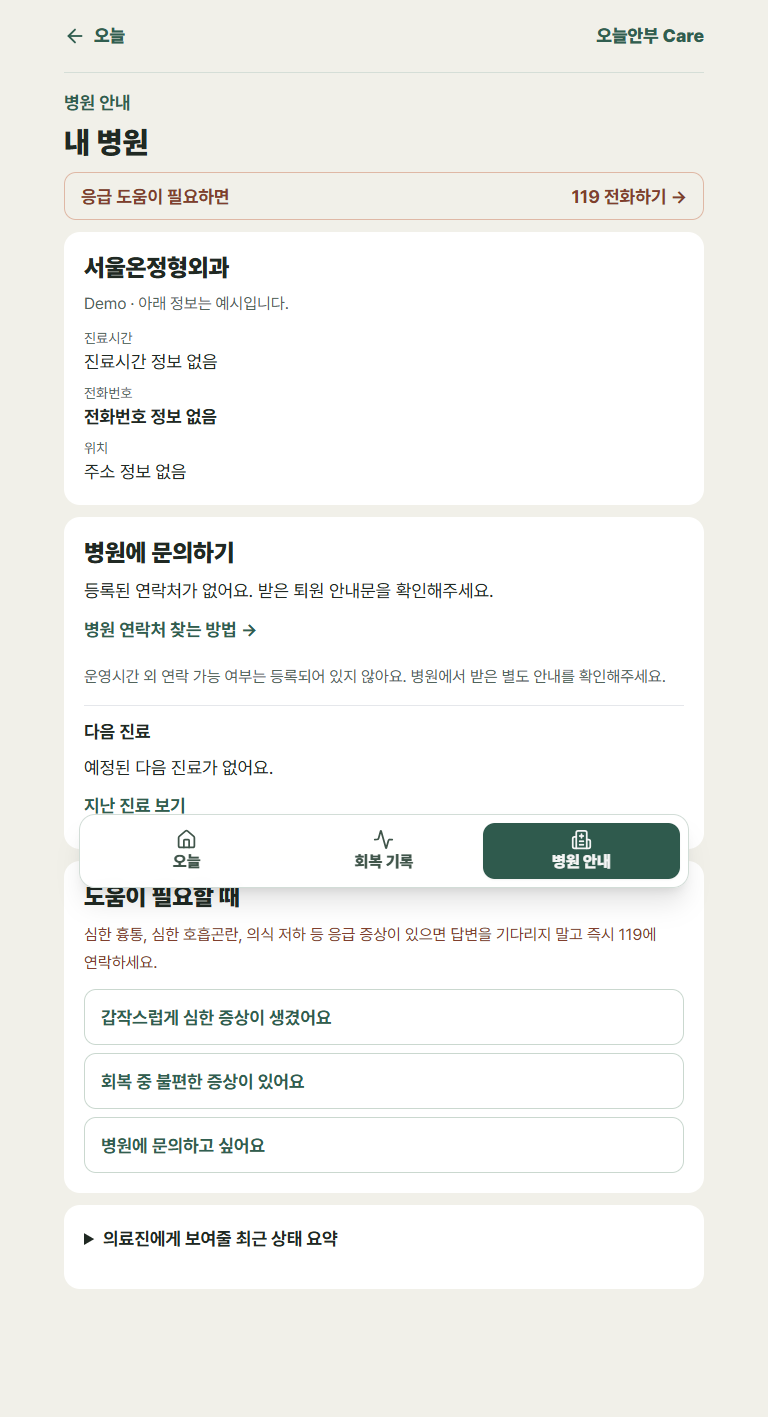
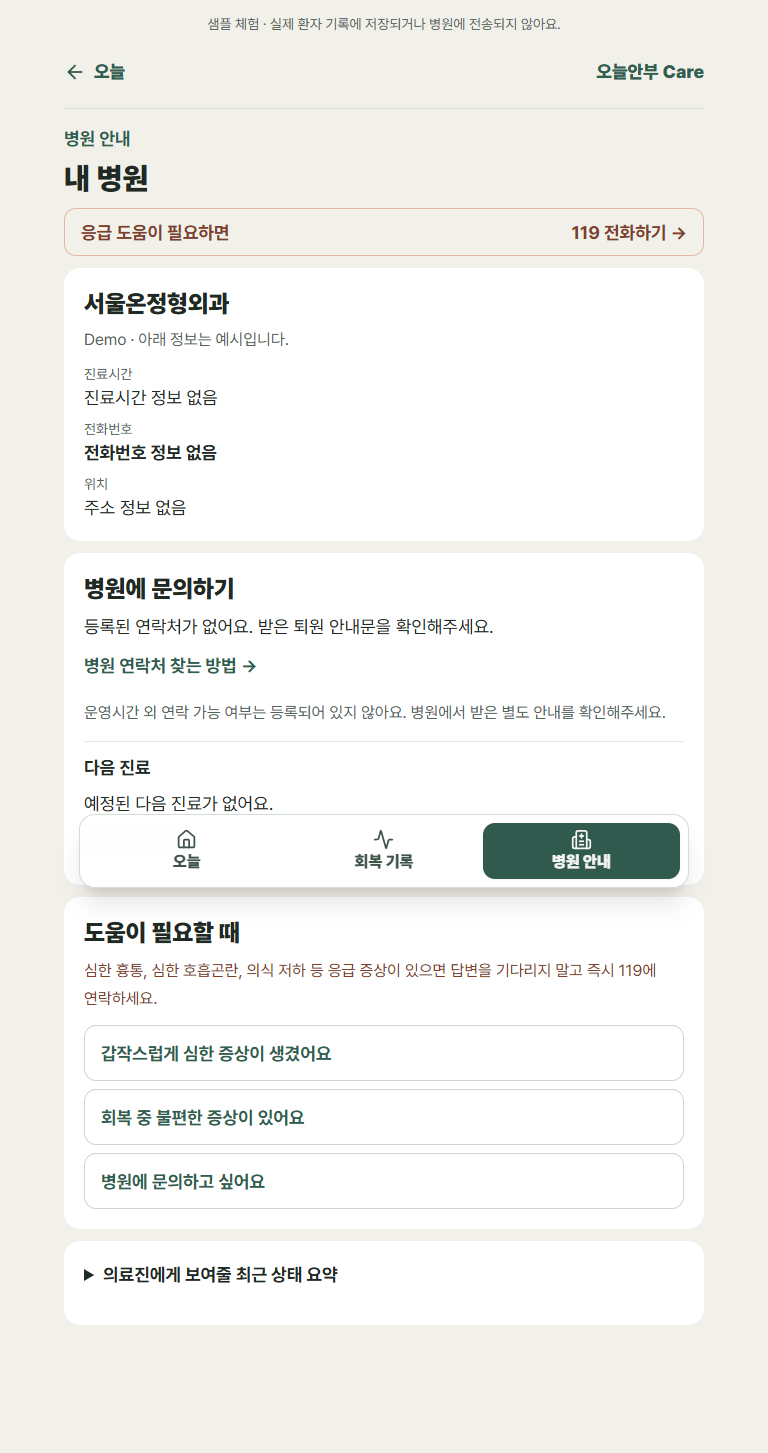
Update Site source

diff --git a/app/page.tsx b/app/page.tsx
@@ -1,4 +1,4 @@
 import Link from "next/link";
 import { HeartPulse } from "lucide-react";
 import { PatientEntryRedirect } from "@/components/patient-entry-redirect";
-export default function Gateway(){return <main className="min-h-[100dvh] bg-[#F4F2EB] px-5 text-[#202923]"><PatientEntryRedirect/><div className="mx-auto flex min-h-[100dvh] max-w-[1080px] flex-col"><header className="flex min-h-16 flex-wrap items-center justify-between gap-2 border-b border-[#DDE2DC]"><Link href="/" className="flex min-h-11 items-center gap-2 text-xl font-black text-[#29483D]"><HeartPulse aria-hidden/>오늘안부</Link><details className="relative"><summary className="flex min-h-11 cursor-pointer items-center px-3 font-bold">메뉴</summary><nav aria-label="주요 메뉴" className="absolute right-0 z-10 grid w-56 rounded-xl border bg-white p-3 shadow-lg">{[["/company","오늘안부 소개"],["/patient","환자 이용 안내"],["/hospital/login","병원 로그인"],["/hospital","병원용 서비스"],["/start","가입 및 이용 시작"]].map(([href,label])=><Link key={href} href={href} className="flex min-h-12 items-center px-2 font-bold">{label}</Link>)}</nav></details></header><section className="flex flex-1 flex-col items-center justify-center py-10 text-center sm:py-16"><p className="font-bold text-[#315E50]">퇴원 후 회복을 함께 확인해요</p><h1 className="mt-4 text-[2.25rem] font-black leading-tight tracking-tight sm:text-6xl">오늘 몸은 어떠세요?</h1><p className="mt-4 max-w-md text-lg leading-7 text-[#52645B]">오늘의 상태를 기록하고,<br className="sm:hidden"/> 회복의 변화를 확인하세요.</p><Link href="/patient" className="mt-7 inline-flex min-h-14 w-full max-w-sm items-center justify-center rounded-2xl bg-[#315E50] px-5 text-xl font-black text-white">오늘 안부 시작하기 →</Link><p className="mt-3 max-w-sm text-sm leading-6 text-[#52645B]">병원에서 받은 링크로 시작할 수 있어요.</p><ul className="mt-7 flex flex-wrap justify-center gap-x-5 gap-y-2 text-base font-bold text-[#315E50]"><li>간단한 상태 기록</li><li>회복 변화 확인</li><li>병원 안내</li></ul><Link href="/demo/patient" className="mt-5 inline-flex min-h-11 items-center font-bold text-[#52645B] underline underline-offset-4">환자 화면 미리보기</Link></section><footer className="flex flex-wrap justify-center gap-x-5 gap-y-1 border-t border-[#DDE2DC] py-3 text-sm text-[#52645B]">{[["/company","서비스 소개"],["/hospital","병원 관계자 안내"],["/settings/privacy","개인정보 안내"],["/help","도움말"]].map(([href,label])=><Link key={href} href={href} className="inline-flex min-h-11 items-center">{label}</Link>)}<p className="w-full text-center leading-6">오늘안부는 의료진의 진료나 응급 대응을 대신하지 않습니다.</p></footer></div></main>}
+export default function Gateway(){return <main className="min-h-[100dvh] bg-[#F4F2EB] px-5 text-[#202923]"><PatientEntryRedirect redirectSession={false}/><div className="mx-auto flex min-h-[100dvh] max-w-[1080px] flex-col"><header className="flex min-h-16 flex-wrap items-center justify-between gap-2 border-b border-[#DDE2DC]"><Link href="/" className="flex min-h-11 items-center gap-2 text-xl font-black text-[#29483D]"><HeartPulse aria-hidden/>오늘안부</Link><details className="relative"><summary className="flex min-h-11 cursor-pointer items-center px-3 font-bold">메뉴</summary><nav aria-label="주요 메뉴" className="absolute right-0 z-10 grid w-56 rounded-xl border bg-white p-3 shadow-lg">{[["/company","오늘안부 소개"],["/patient","환자 이용 안내"],["/hospital/login","병원 로그인"],["/hospital","병원용 서비스"]].map(([href,label])=><Link key={href} href={href} className="flex min-h-12 items-center px-2 font-bold">{label}</Link>)}</nav></details></header><section className="flex flex-1 flex-col items-center justify-center py-10 text-center sm:py-16"><p className="font-bold text-[#315E50]">퇴원 후 회복을 함께 확인해요</p><h1 className="mt-4 text-[2.25rem] font-black leading-tight tracking-tight sm:text-6xl">오늘 몸은 어떠세요?</h1><p className="mt-4 max-w-md text-lg leading-7 text-[#52645B]">오늘의 상태를 기록하고,<br className="sm:hidden"/> 회복의 변화를 확인하세요.</p><Link href="/patient" className="mt-7 inline-flex min-h-14 w-full max-w-sm items-center justify-center rounded-2xl bg-[#315E50] px-5 text-xl font-black text-white">오늘 안부 시작하기 →</Link><p className="mt-3 max-w-sm text-sm leading-6 text-[#52645B]">병원에서 받은 링크로 시작할 수 있어요.</p><ul className="mt-7 flex flex-wrap justify-center gap-x-5 gap-y-2 text-base font-bold text-[#315E50]"><li>간단한 상태 기록</li><li>회복 변화 확인</li><li>병원 안내</li></ul><Link href="/demo/patient" className="mt-5 inline-flex min-h-11 items-center font-bold text-[#52645B] underline underline-offset-4">환자 화면 미리보기</Link></section><footer className="flex flex-wrap justify-center gap-x-5 gap-y-1 border-t border-[#DDE2DC] py-3 text-sm text-[#52645B]">{[["/company","서비스 소개"],["/hospital","병원 관계자 안내"],["/settings/privacy","개인정보 안내"],["/help","도움말"]].map(([href,label])=><Link key={href} href={href} className="inline-flex min-h-11 items-center">{label}</Link>)}<p className="w-full text-center leading-6">오늘안부는 의료진의 진료나 응급 대응을 대신하지 않습니다.</p></footer></div></main>}

diff --git a/src/components/patient-entry.tsx b/src/components/patient-entry.tsx
@@ -1,0 +1,69 @@
+"use client";
+
+import Link from "next/link";
+import { useEffect, useState } from "react";
+import { useRouter } from "next/navigation";
+import { inspectPatientSession } from "@/lib/demo-auth";
+
+export function PatientEntry() {
+  const router = useRouter();
+  const [status, setStatus] = useState<"checking" | "visitor" | "sessionExpired" | "storageError">("checking");
+
+  useEffect(() => {
+    const check = () => {
+      const query = new URLSearchParams(window.location.search);
+      if (query.has("token")) {
+        router.replace("/i?token=" + encodeURIComponent(query.get("token") || ""));
+        return;
+      }
+      const access = inspectPatientSession();
+      if (access.session) {
+        router.replace("/app/patient");
+        return;
+      }
+      setStatus(access.error === "sessionExpired" || access.error === "storageError" ? access.error : "visitor");
+    };
+    check();
+    window.addEventListener("focus", check);
+    window.addEventListener("pageshow", check);
+    window.addEventListener("storage", check);
+    return () => {
+      window.removeEventListener("focus", check);
+      window.removeEventListener("pageshow", check);
+      window.removeEventListener("storage", check);
+    };
+  }, [router]);
+
+  return <main className="min-h-[100dvh] bg-[#F1F0E9] px-5 py-5 text-[#202923]">
+    <div className="mx-auto max-w-[560px]">
+      <header className="flex min-h-12 items-center justify-between gap-3">
+        <Link href="/" className="inline-flex min-h-11 items-center font-bold text-[#315E50]">← 처음으로</Link>
+        <span className="font-black text-[#315E50]">오늘안부</span>
+      </header>
+      {status === "checking" ? <p role="status" className="py-12 text-lg">이용 경로를 확인하고 있어요.</p> : <>
+        <h1 className="mt-6 text-3xl font-black leading-tight">어떻게 이용하시겠어요?</h1>
+        <p className="mt-3 text-lg leading-7 text-[#52635C]">환자 전용 기록은 병원에서 받은 링크로 연결해요.</p>
+        {status === "sessionExpired" ? <p role="status" className="mt-4 rounded-xl border border-[#D6A086] bg-[#FFF5EE] p-4 leading-7">기존 환자 연결의 이용 시간이 지났어요. 받은 링크를 다시 열어주세요. 링크도 만료됐다면 병원에 새 링크를 요청해주세요.</p> : null}
+        {status === "storageError" ? <p role="alert" className="mt-4 rounded-xl border border-[#D6A086] bg-[#FFF5EE] p-4 leading-7">이 기기의 연결 정보를 읽지 못했어요. 브라우저의 사이트 데이터 저장 설정을 확인한 뒤 받은 링크를 다시 열어주세요. 기존 기록은 삭제하지 않았어요.</p> : null}
+        <section aria-labelledby="received-link" className="mt-5 rounded-2xl bg-white p-5">
+          <h2 id="received-link" className="text-xl font-black">병원에서 링크를 받았어요</h2>
+          <p className="mt-3 leading-7">문자나 카카오톡에서 ‘오늘안부’ 또는 진료받은 병원 이름을 찾아 가장 최근의 회복관리 링크를 눌러주세요.</p>
+          <p className="mt-2 text-base leading-7 text-[#52635C]">연결 안내와 본인 확인을 마치면 오늘 상태를 기록할 수 있어요.</p>
+        </section>
+        <details className="mt-3 rounded-2xl bg-white px-5 py-3">
+          <summary className="flex min-h-12 cursor-pointer items-center text-lg font-bold text-[#315E50]">링크를 받지 못했거나 찾을 수 없어요</summary>
+          <div className="pb-2 leading-7">
+            <p>퇴원 안내문이나 병원에서 받은 문자에 적힌 연락처로 오늘안부 이용 대상인지 문의해주세요.</p>
+            <p className="mt-2">이용 대상이라면 회복관리 링크 발급 또는 재발급을 요청해주세요. 이 화면에서는 링크를 직접 발급하지 않아요.</p>
+          </div>
+        </details>
+        <section aria-labelledby="sample-preview" className="mt-3 rounded-2xl border border-[#D9E1DC] p-5">
+          <h2 id="sample-preview" className="text-xl font-black">먼저 살펴보고 싶어요</h2>
+          <p className="mt-2 text-base leading-7 text-[#52635C]">샘플 데이터로 화면과 기록 과정을 체험해보세요. 체험 기록은 이 기기의 샘플 데이터에만 저장되며, 실제 환자 기록이나 병원에 반영되지 않아요.</p>
+          <Link href="/demo/patient" className="mt-3 flex min-h-14 items-center justify-center rounded-xl bg-[#315E50] px-4 text-lg font-bold text-white">샘플로 체험하기 →</Link>
+        </section>
+        <Link href="/" className="mt-3 flex min-h-12 items-center justify-center font-bold text-[#315E50] underline underline-offset-4">랜딩페이지로 돌아가기</Link>
+      </>}
+    </div>
+  </main>;
+}

diff --git a/src/lib/care-analytics.ts b/src/lib/care-analytics.ts
@@ -8,7 +8,7 @@ export function clearDemoAnalyticsEvents(){if(typeof window!=="undefined")localS
 export function trackCareEvent(name:CareEvent,properties:Record<string,unknown>={}){
  if(typeof window==="undefined")return;
  try{
-  const hs=getHospitalSession(),ps=getPatientSession(),demo=properties.demo===true,event:CareAnalyticsEvent={id:`event_${Date.now()}_${Math.random().toString(36).slice(2,8)}`,eventType:name,patientId:typeof properties.patientId==="string"?properties.patientId:ps?.patientId,hospitalId:typeof properties.hospitalId==="string"?properties.hospitalId:hs?.hospitalId||ps?.hospitalId,staffId:typeof properties.staffId==="string"?properties.staffId:hs?.userId,careSignalId:typeof properties.careSignalId==="string"?properties.careSignalId:undefined,careTaskId:typeof properties.careTaskId==="string"?properties.careTaskId:undefined,timestamp:new Date().toISOString(),metadata:Object.fromEntries(Object.entries(properties).filter(([key])=>!["patientId","hospitalId","staffId","careSignalId","careTaskId","demo"].includes(key)))};
+  const demo=properties.demo===true,hs=demo?null:getHospitalSession(),ps=demo?null:getPatientSession(),event:CareAnalyticsEvent={id:`event_${Date.now()}_${Math.random().toString(36).slice(2,8)}`,eventType:name,patientId:typeof properties.patientId==="string"?properties.patientId:ps?.patientId,hospitalId:typeof properties.hospitalId==="string"?properties.hospitalId:hs?.hospitalId||ps?.hospitalId,staffId:typeof properties.staffId==="string"?properties.staffId:hs?.userId,careSignalId:typeof properties.careSignalId==="string"?properties.careSignalId:undefined,careTaskId:typeof properties.careTaskId==="string"?properties.careTaskId:undefined,timestamp:new Date().toISOString(),metadata:Object.fromEntries(Object.entries(properties).filter(([key])=>!["patientId","hospitalId","staffId","careSignalId","careTaskId","demo"].includes(key)))};
   const key=demo?DEMO_ANALYTICS_KEY:CARE_ANALYTICS_KEY,events=loadCareAnalyticsEvents(demo);localStorage.setItem(key,JSON.stringify([...events,event].slice(-10000)));window.dispatchEvent(new CustomEvent("todayanbu:analytics",{detail:event}));const patientId=event.patientId||"";
   if(name==="checkin_completed"&&ps)audit({actorType:"patient",actorId:ps.patientId,actorRole:"patient",hospitalId:ps.hospitalId,action:"checkin_completed",resourceType:"checkin",resourceId:patientId});
   if(name==="patient_status_changed"&&ps)audit({actorType:"patient",actorId:ps.patientId,actorRole:"patient",hospitalId:ps.hospitalId,action:"patient_status_changed",resourceType:"patient_status",resourceId:patientId});

diff --git a/src/components/patient-error.tsx b/src/components/patient-error.tsx
@@ -14,7 +14,8 @@ const messages: Record<PatientErrorType, [string, string]> = {
   unknownError: ["화면을 불러오지 못했어요.", "잠시 후 다시 시도해주세요. 계속된다면 병원에서 받은 링크를 다시 열어주세요."],
 };
 export function PatientError({ type, retry }: { type: PatientErrorType; retry: () => void }) {
-  const nav = usePatientNavigation(), [help, setHelp] = useState(false), [attempted, setAttempted] = useState(false);
+  const linkError = type === "invalidInvite" || type === "expiredInvite";
+  const nav = usePatientNavigation(), [help, setHelp] = useState(linkError), [attempted, setAttempted] = useState(false);
   const [title, description] = messages[type];
   return <main className="min-h-[100dvh] bg-[#F1F0E9] px-5 pb-10 text-[#202923]">
     <div className="mx-auto max-w-[640px]">
@@ -28,6 +29,7 @@ export function PatientError({ type, retry }: { type: PatientErrorType; retry: (
         <button aria-expanded={help} className="mt-3 min-h-14 w-full rounded-2xl border-2 border-[#315E50] text-xl font-black text-[#315E50]" onClick={() => setHelp(v => !v)}>병원 안내 보기</button>
         {help ? <div className="mt-5 rounded-2xl bg-[#F1F0E9] p-5 text-lg leading-8"><h2 className="text-xl font-black">병원에서 받은 링크 찾기</h2><p className="mt-3">문자나 카카오톡에서 ‘오늘안부’ 또는 진료받은 병원 이름을 검색해주세요. 가장 최근에 받은 회복관리 링크를 눌러주세요.</p><p className="mt-3">링크가 없거나 만료되었다면 퇴원 안내문 또는 병원에서 받은 문자에 적힌 연락처로 새 링크를 요청해주세요.</p></div> : null}
         {nav.demo ? <PatientLink href="/demo/patient" className="mt-4 flex min-h-12 items-center justify-center font-bold text-[#315E50]">데모 홈으로 돌아가기</PatientLink> : null}
+        {!nav.demo ? <div className="mt-4 grid gap-2"><PatientLink href="/patient" className="flex min-h-12 items-center justify-center font-bold text-[#315E50] underline">서비스 이용 경로 선택</PatientLink><PatientLink href="/" className="flex min-h-12 items-center justify-center font-bold text-[#315E50] underline">랜딩페이지로 돌아가기</PatientLink></div> : null}
       </section>
     </div>
   </main>;

diff --git a/src/components/patient-care-mvp.tsx b/src/components/patient-care-mvp.tsx
@@ -337,7 +337,7 @@ function AdaptiveCheckin({ patient, todayCheck, history, guardianMode, demo, edi
 function PatientShell({ children, demo, active = "home", backLabel, backFallback, onBack, hideNav = false, careStage = "activeCare" }: { children: React.ReactNode; demo: boolean; active?: "home" | "history" | "hospital"; backLabel?: string; backFallback?: string; onBack?:()=>void; hideNav?:boolean; careStage?:CareStage }) {
   return (
     <main className="min-h-[100dvh] bg-[#F1F0E9] px-5 pb-[calc(7rem+env(safe-area-inset-bottom))] text-[#202923] [font-size:18px]">
-      <div className="mx-auto max-w-[640px]">{demo && active !== "hospital" ? <div className="pt-4 text-center"><span className="inline-flex rounded-full bg-white px-3 py-1 text-base font-black text-[#587066]">오늘안부 데모</span></div> : null}{backLabel ? <header className="flex items-center justify-between border-b border-[#D5DED7] py-3"><PatientBack label={backLabel === "오늘" && careStage === "completedCare" ? "홈" : backLabel} fallback={backFallback} onBack={onBack}/><span className="text-lg font-black text-[#315E50]">오늘안부 Care</span></header> : null}{children}</div>{!hideNav ? <PatientBottomNav demo={demo} current={active} careStage={careStage}/> : null}
+      <div className="mx-auto max-w-[640px]">{demo && active !== "hospital" ? <div className="pt-4 text-center"><span className="inline-flex rounded-full bg-white px-3 py-1 text-base font-black text-[#587066]">오늘안부 데모</span></div> : null}{demo ? <p className="pt-3 text-center text-sm leading-6 text-[#52645B]">샘플 체험 · 실제 환자 기록에 저장되거나 병원에 전송되지 않아요.</p> : null}{backLabel ? <header className="flex items-center justify-between border-b border-[#D5DED7] py-3"><PatientBack label={backLabel === "오늘" && careStage === "completedCare" ? "홈" : backLabel} fallback={backFallback} onBack={onBack}/><span className="text-lg font-black text-[#315E50]">오늘안부 Care</span></header> : null}{children}</div>{!hideNav ? <PatientBottomNav demo={demo} current={active} careStage={careStage}/> : null}
     </main>
   );
 }

diff --git a/src/components/patient-entry-redirect.tsx b/src/components/patient-entry-redirect.tsx
@@ -2,12 +2,12 @@
 import { useEffect } from "react";
 import { useRouter } from "next/navigation";
 import { getPatientSession } from "@/lib/demo-auth";
-export function PatientEntryRedirect() {
+export function PatientEntryRedirect({ redirectSession = true }: { redirectSession?: boolean }) {
  const router = useRouter();
  useEffect(() => {
-  const token = new URLSearchParams(window.location.search).get("token");
-  if (token) router.replace("/i?token=" + encodeURIComponent(token));
-  else if (getPatientSession()) router.replace("/app/patient");
- }, [router]);
+  const query = new URLSearchParams(window.location.search);
+  if (query.has("token")) router.replace("/i?token=" + encodeURIComponent(query.get("token") || ""));
+  else if (redirectSession && getPatientSession()) router.replace("/app/patient");
+ }, [router, redirectSession]);
  return null;
 }

diff --git a/app/patient/page.tsx b/app/patient/page.tsx
@@ -1,4 +1,5 @@
-import { PatientEntryRedirect } from "@/components/patient-entry-redirect";
+import { PatientEntry } from "@/components/patient-entry";
+
 export default function PatientLanding() {
- return <main className="grid min-h-screen place-items-center bg-[#F1F0E9] px-5 text-[#202923]"><PatientEntryRedirect /><section className="w-full max-w-[560px] rounded-[28px] bg-[#FFFCF7] p-8"><p className="font-black text-[#315E50]">오늘안부 Care</p><h1 className="mt-5 text-3xl font-black">병원에서 받은 링크를 열어주세요.</h1><p className="mt-4 text-lg font-semibold leading-8 text-[#52635C]">문자나 카카오톡으로 받은 회복관리 링크에서 오늘 상태를 입력할 수 있습니다. 링크가 없거나 만료되었다면 병원에 다시 요청해주세요.</p></section></main>;
+  return <PatientEntry />;
 }

diff --git a/qa/patient-entry-report.md b/qa/patient-entry-report.md
@@ -1,0 +1,58 @@
+# 랜딩페이지 진입 UX 추가 개선 — 2026-10-14
+
+## 변경 내용
+- 랜딩의 시작 CTA는 `/patient` 이용 경로 확인 화면으로 연결.
+- 유효한 기존 환자 세션: 기존 `/app/patient` 오늘 화면으로 이동.
+- 미인증 방문자: 링크 이용 방법, 링크 미수신/분실 시 병원에 문의하는 방법, 샘플 체험, 랜딩 복귀 경로 제공.
+- 만료된 세션: 이용 경로 화면에 다시 연결하는 방법 표시. 저장 정보 오류도 별도 안내하고 기존 기록을 삭제하지 않음.
+- 랜딩은 인증 없이 이용하는 홍보 화면으로 유지. 로그인한 환자도 랜딩을 볼 수 있고 시작 CTA를 누르면 환자 화면으로 이동.
+- 랜딩과 `/patient`에 전달된 `token`은 빈 값까지 기존 `/i` 인증 경로로 전달. 정상 링크의 기존 본인 확인·환자 연결 로직은 변경하지 않음.
+- 만료/잘못된 링크: 기존 상황별 오류 메시지에 링크 찾기·새 링크 요청 방법을 기본 노출. 서비스 이용 경로/랜딩 복귀 링크 추가.
+- 실제 가입 서비스로 오해할 수 있는 랜딩의 ‘가입 및 이용 시작’ 메뉴 항목 제거. 기존 `/start` 라우트는 삭제하지 않음.
+
+## 체험 환경 보호
+- 기존 `/demo/patient` 및 별도 샘플 데이터 저장소를 재사용. 실제 환자 데이터에서 샘플을 가져오지 않음.
+- 모든 환자 체험 화면에 실제 기록 저장·병원 전송이 없음을 명시.
+- 샘플 입력은 샘플 저장소에만 반영하고 실제 환자/병원 저장소·인증을 변경하지 않음.
+- 체험 분석 이벤트에서 실제 환자/병원 세션을 조회하지 않도록 수정. 체험 기록이 실제 감사 기록에 섞이는 경로 차단.
+- 미구현 가입·링크 발급·병원 검색 버튼 추가 없음. 링크 발급은 병원에 요청하는 방법만 안내.
+
+## 변경 파일
+- `app/page.tsx`
+- `app/patient/page.tsx`
+- `src/components/patient-entry.tsx` (신규)
+- `src/components/patient-entry-redirect.tsx`
+- `src/components/patient-error.tsx`
+- `src/components/patient-care-mvp.tsx`
+- `src/lib/care-analytics.ts`
+- `tests/patient-entry.mjs` (신규)
+- `tests/landing-entry.mjs`
+
+## 테스트 범위
+- 신규 방문 → CTA → 이용 경로 → 체험 → 뒤로 가기 → 새로고침 → 랜딩 복귀.
+- 정상 링크 → 기존 본인 확인 → 오늘 화면.
+- 로그인한 환자의 랜딩 재방문 → CTA → 오늘 화면, 새로고침.
+- 만료/잘못된/빈 토큰 → 각각 오류와 링크 재발급 방법, 새로고침.
+- 만료 세션/손상된 저장 정보 → 적절한 안내와 이용 경로.
+- 실제 세션이 있는 상태에서 샘플 입력 후 실제 기록·인증·초대·분석·감사 저장소가 바뀌지 않는지 비교.
+- 테스트에는 자동 생성된 샘플과 테스트용 초대만 사용. 운영 환자 데이터는 사용하지 않음.
+
+## 배포 상태
+새 수정본의 외부 소스 동기화·배포는 자동 승인 검토에서 명시적 게시 권한 부족을 이유로 거절됨. 현재 운영 사이트 버전 90은 유지하며, 이번 변경은 로컬에 있음.
+
+## 제약
+실제 병원에서 문자를 발송하는 외부 시스템, iOS/Safari, 실제 운영 환자의 인증을 수동 확인하지 않음. 기존 인증 방식과 저장 구조를 유지했으며 서버 인증이나 실제 링크 발급 기능을 신설하지 않음.
+
+## 검증 결과
+- 진입 경로·데이터 격리 2건(390/1440px)과 기존 랜딩 회귀 2건 통과.
+- 기존 모바일 통합 테스트 통과: 360/375/390/430/768/1440px, 저장·실패 복구·수정·입력 복원·병원 안내·200% 글자 확대.
+- TypeScript 검사 통과.
+- 화면 캡처: qa/patient-entry-390.png, qa/patient-entry-1440.png.
+- 린트는 기존 ESLint 플러그인 누락 때문에 별도 미검증. 정적 빌드는 --no-lint로 수행.
+
+- 최종 정적 빌드 성공: 157개 페이지 생성, 내보내기 완료. 로그: qa/patient-entry-build.log.
+
+
+## 배포 승인 후속 기록
+2026-10-14 사용자 요청으로 이번 진입 UX 수정본의 푸시·운영 배포를 승인받음. 최종 배포 결과는 채팅 응답에 기록.
+
